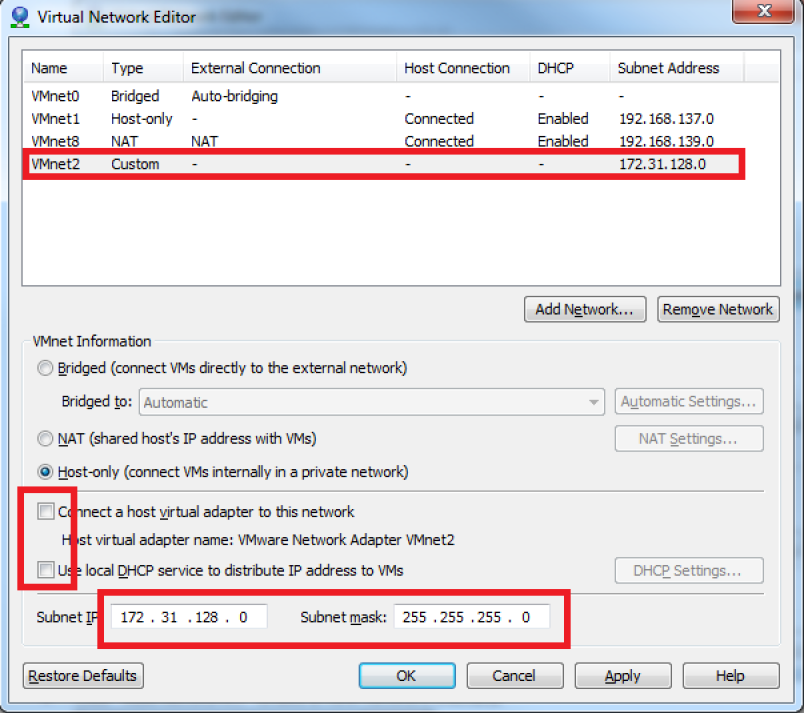
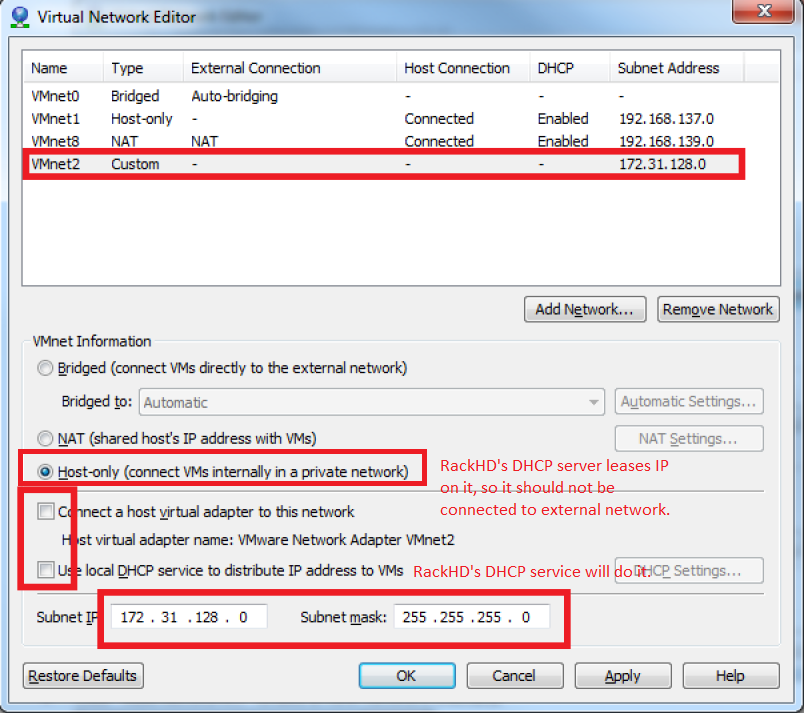
Add VMware workstation based RackHD + InfraSIM integration in howto chapter.

diff --git a/docs/how_to.rst b/docs/how_to.rst
@@ -1,8 +1,11 @@
 How To
 =========================
 
+
 How to install VMWare ESXi on Physical Server
 ------------------------------------
+
+.. _Requirement of physical server:
 
 #. Requirement of physical server
     The physical server must support ESXi 6.0 and it should be allocated at least 3 NIC ports. The first NIC port is used for the admin network connection. The second and third NIC ports are used for control network connection(The second NIC is required. The third NIC is optional). The fourth NIC port is used for data network connection (optional).
@@ -195,12 +198,99 @@ The following picture shows the deployment model for the integration of InfraSIM
            :height: 600
            :align: center
 
-Please follow up below steps to step the entire environment. After that, RackHD can discover and manage the virtual server and virtual PDU just as the real physical server and PDU. 
+The networking connection between InfraSIM and RackHD is shown below:
 
-#. Please refer RackHD document(http://rackhd.readthedocs.org/en/latest/getting_started.html) to setup the RackHD Server. RackHD server should be configured with as least two networks, "Admin network" and "Control Network".
+.. image:: _static/vmworkstation_infrasim_rackhd_network_connection.png
+           :height: 600
+           :align: center
+
+
+Please follow below steps to setup the entire environment. After that, RackHD can discover and manage the virtual server and virtual PDU just as the real physical server and PDU. Note that in the example, virtual machines are spinned up on VMWare workstation. Configuration is similiar on other platforms.
+
+#. Enable VT-d in BIOS on Physical Server as in chapter `11.1 <Requirement of physical server_>`_.
+
+#. Create two virtual machines(for InfraSIM/RackHD respectively) inside VMWare workstation, or use ova images built by InfraSIM and RackHD groups.
+
+#. Create a Custom network(name it ``VMnet2`` here) in VMWare workstation with configuration below:
+
+   .. image:: _static/vmworkstation3.png
+              :height: 400
+              :width: 400
+              :align: center
+
+
+#. Configure network connection for InfraSIM virtual machine:
+
+    A. In virtual machine settings, create network adapters:
+
+        .. image:: _static/vmworkstation_infrasim_networking.png
+                   :height: 400
+                   :align: center
+
+    B. Modify ``/etc/network/interfaces`` for the ``BMC`` and ``CONTROL`` networks::
+
+        ...
+        auto <BMC ifname>
+        iface <BMC ifname> inet dhcp
+        post-up ifconfig <BMC ifname> promisc
+
+        auto <CONTROL ifname>
+        iface <CONTROL ifname> inet dhcp
+        post-up ifconfig <CONTROL ifname> promisc
+        ...
+
+     <BMC ifname> and <CONTROL ifname> are the names of infrasim vm's BMC and CONTROL network adapters. Check ``ifconfig`` to get the ifname.
+
+    C. Create a network bridge and add ``CONTROL`` interface to the bridge referring to `How to create a bridge <https://github.com/InfraSIM/infrasim-compute/wiki/How-to-create-bridge-for-InfraSIM>`_.
+
+
+#. Configure network connection for RackHD virtual machine:
+
+    RackHD server should be configured with as least two networks, ``"Admin network"`` and ``"Control Network"``.
+
     * "Admin Network" is used to communicate with external servers
     * "Control Network" is used to control the virtual servers.
 
-#. Deploy virtual compute node and virtual PDU on ESXi with the network connection as in the pictures show. The ESXi show have network connection with the RackHD server.
+    A. In virtual machine settings, create network adapters:
+
+    .. image:: _static/vmworkstation_rackhd_networking.png
+               :height: 400
+               :align: center
+
+    B. In ``/etc/network/interfaces``, configure the ``CONTROL`` network interface to static::
+
+        ...
+        auto <CONTROL ifname>
+        iface <CONTROL ifname> inet static
+        address  172.31.128.1
+        netmask 255.255.240.0
+        ...
+
+     Check ``ifconfig`` to find <CONTROL ifname> for ``CONTROL`` network and fill in the commands above.
+
+#. Install RackHD from source code.
+   Please refer `RackHD document <http://rackhd.readthedocs.io/en/latest/rackhd/ubuntu_source_installation.html>`_ to setup the RackHD Server.
+
+#. Install InfraSIM from source code.
+
+    * Please refer :ref:`Installation` in this document to install InfraSIM.
+
+    * Modify yaml file to add BMC binding and change qemu network interface to bridge mode::
+
+        ...
+            networks:
+                -
+                    network_mode: bridge
+                    network_name: <bridge_name>
+                    device: e1000
+        ...
+        bmc:
+            interface: <BMC ifname>
+        ...
+
+    .. note:: The default yaml file is stored at ${HOME}/.infrasim/.node_map/default.yml.
+
+#. Start RackHD service and InfraSIM service.
+    
 
 After you setup the environment successfully, you can get the server information and control the servers by RackHD APIs. More information about how RackHD APIs communicate with the compute server and PDU, Please refer http://rackhd.readthedocs.org/en/latest/rackhd/index.html#rackhd-api

diff --git a/docs/configuration.rst b/docs/configuration.rst
@@ -522,13 +522,25 @@ Up to infrasim-compute commit `ef289c55 <https://github.com/InfraSIM/infrasim-co
 
    **Not Mandatory**
 
+
    **Default**
 
-   - ``{{lan_interface}}``: first network device starts with "e"
+   - ``{{lan_interface}}``: first network device except ``lo``.
 
    - ``{{ipmi_listen_range}}``: "::", so that you shall see ``addr :: 623`` in vbmc.conf, it means ipmi_sim listen to IPMI request on all network on port 623
 
-   **Legal Values**: Use network devices from ``ifconfig``.
+
+   **Valid Interface**: Use network devices from ``ifconfig``.
+
+   - ``{{lan_interface}}``: the specified network interface.
+   - ``{{ipmi_listen_range}}``: IP address of lan_interface("0.0.0.0" if interface has no IP).
+
+
+   **Invalid Interface**: Network devices that don't exist.
+
+   - ``{{lan_interface}}``: no binding device
+   - ``{{ipmi_listen_range}}``: no range setting, which means user could only access ipmi_sim through kcs channel inside qemu OS.
+
 
 .. _yamlBmcUsername:
 
@@ -643,3 +655,4 @@ Networking
 
             .. image:: _static/networkwithoutrackhd.png
                 :align: center
+

diff --git a/docs/installation.rst b/docs/installation.rst
@@ -1,3 +1,5 @@
+.. _Installation:
+
 Installation
 =========================
 
